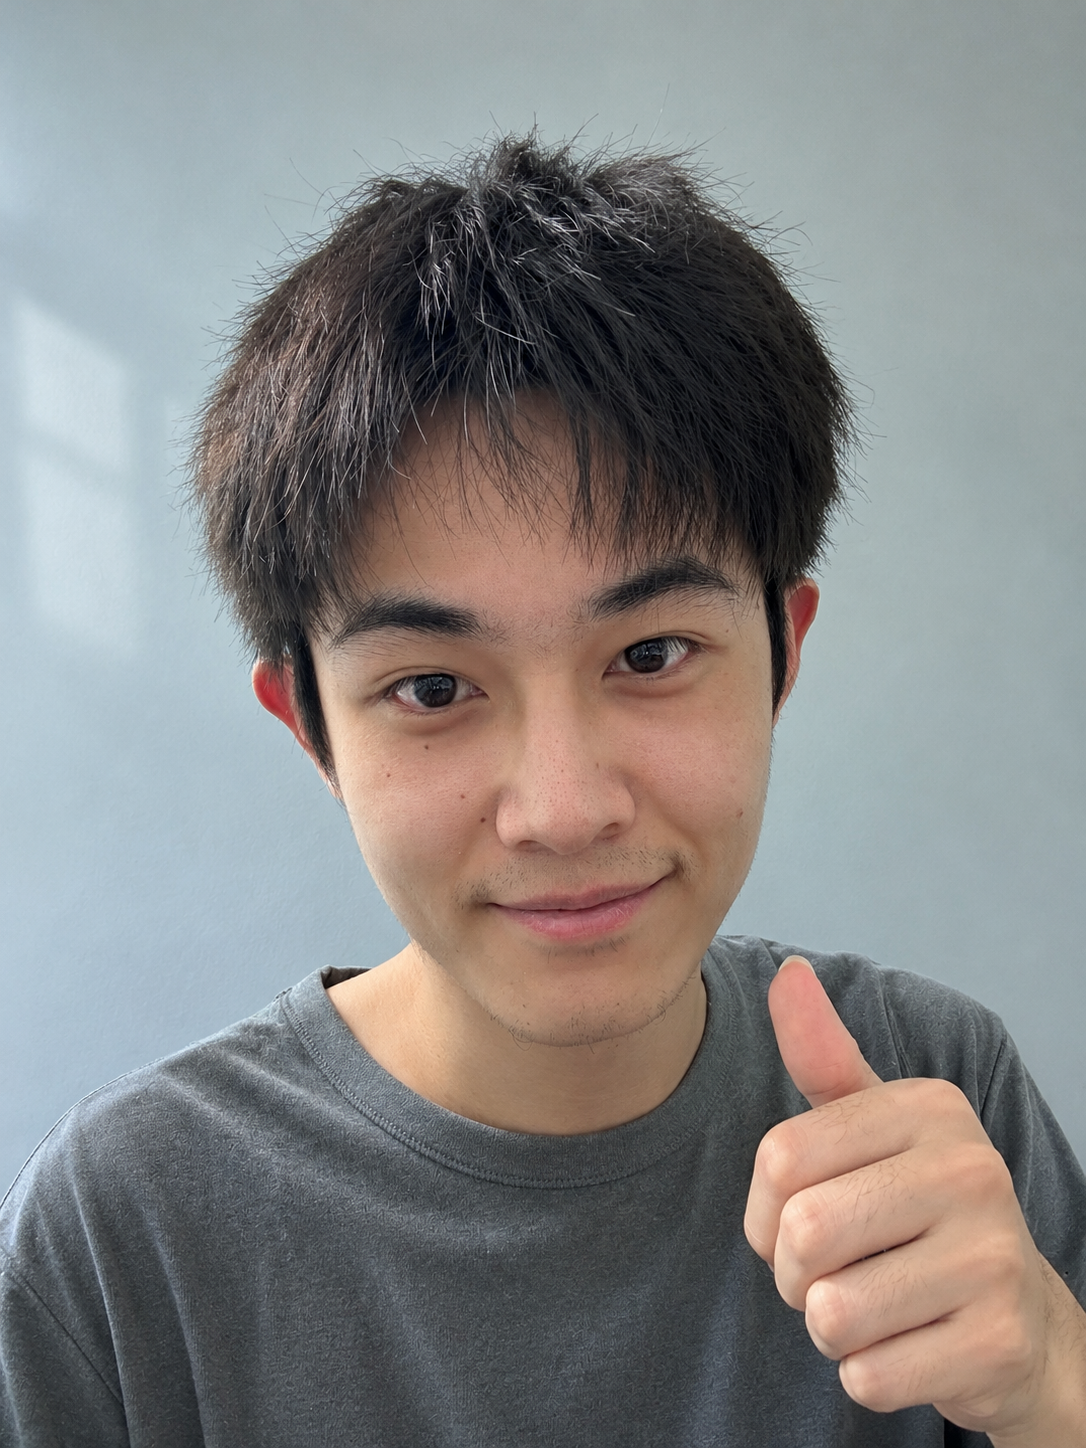
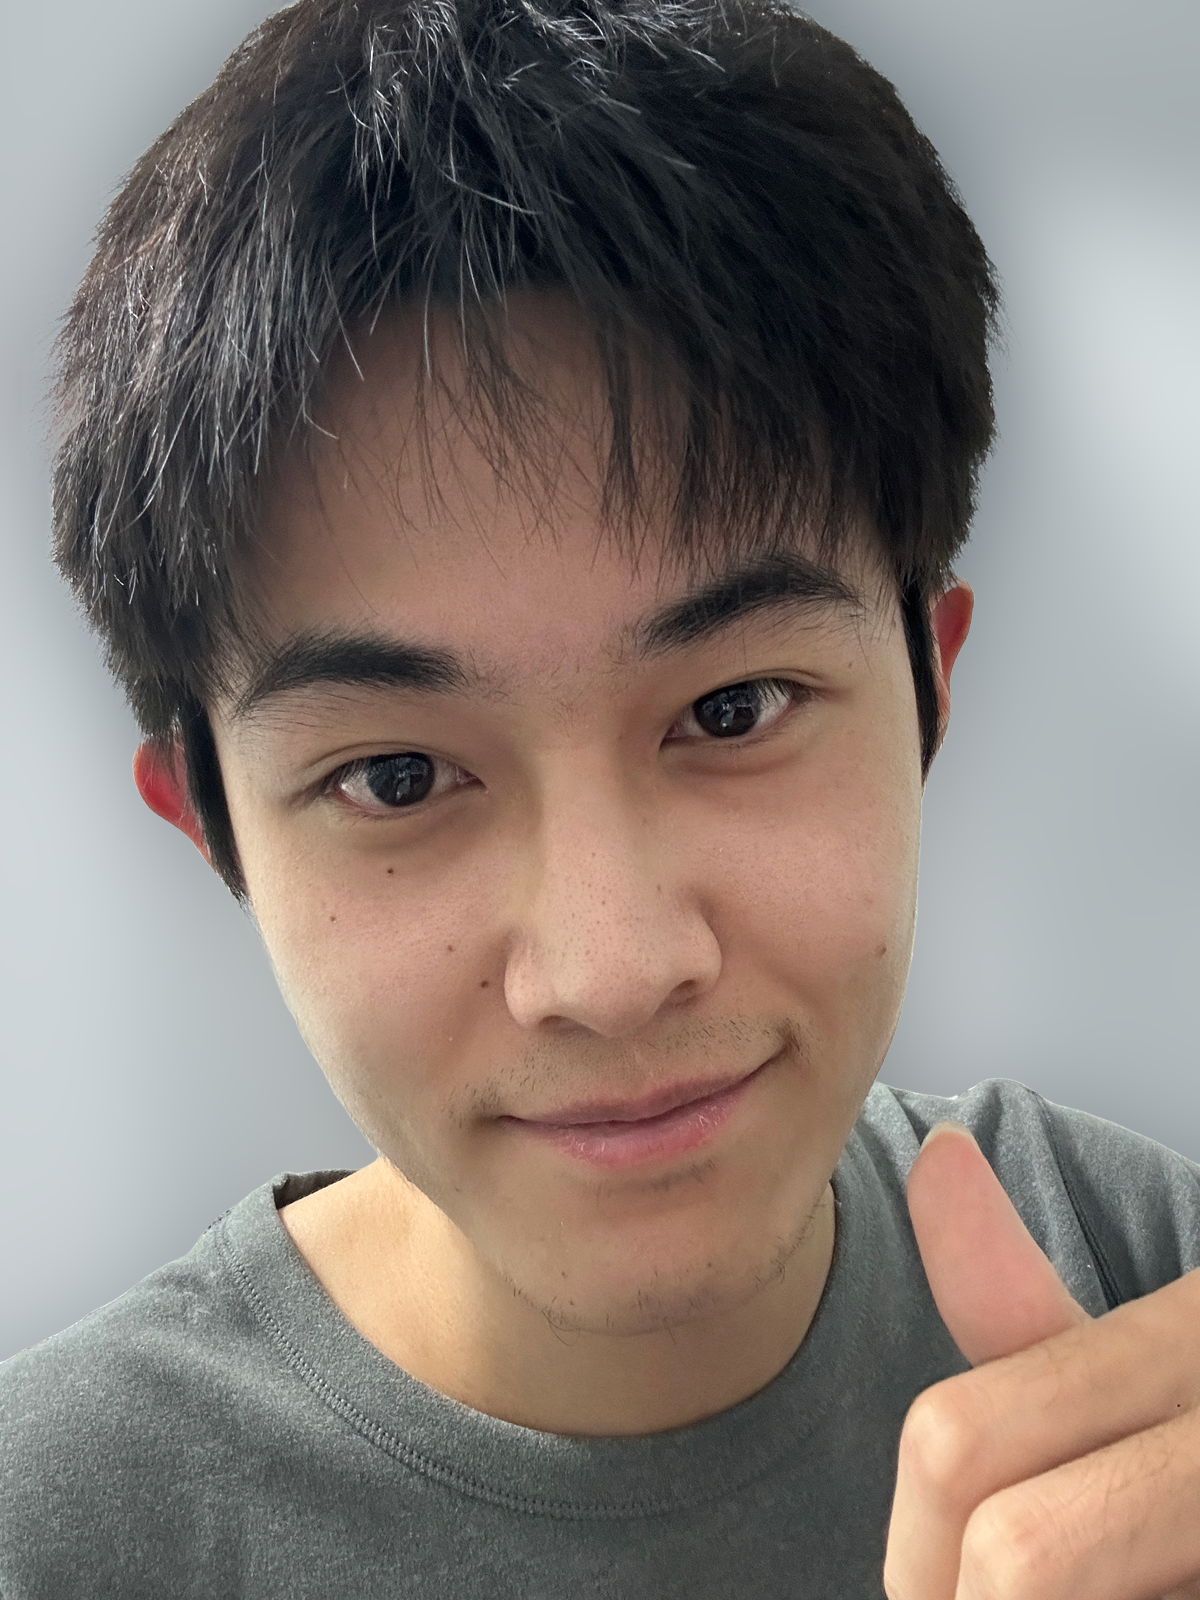
Use the original portrait with a softly blurred background

diff --git a/index.html b/index.html
@@ -19,7 +19,7 @@
 <link rel="icon" href="data:,"><link rel="stylesheet" href="morin-base.css?v=ab1dabcaa3b3"><link rel="stylesheet" href="style.css?v=1e5c5fdc3342"><link rel="stylesheet" href="profile.css?v=ee36d364a433"><link rel="stylesheet" href="homepage-figures.css?v=f113e29c22df"><link rel="stylesheet" href="homepage-entry.css?v=89d8056be196"><script src="homepage-entry.js?v=c9922bf32634" defer></script><script src="profile.js?v=dd6bd2636d74" defer></script><link rel="stylesheet" href="language-control.css?v=ee913818d95e"><link rel="stylesheet" href="homepage-nav.css?v=8733654aff8b"><script src="homepage-nav.js?v=e3672850b54e" defer></script><script src="language-control.js?v=cddb643d28ec" defer></script><script src="site.js?v=22eb46f49121" defer></script><link rel="stylesheet" href="blog/icons.css?v=ea12366de164"><script src="blog/icons.js?v=57007c8be5c5" data-icons-scope="theme" defer></script></head>
 <body><a class="skip-link" href="#content">Skip to content</a>
 <div class="masthead"><div class="masthead__inner-wrap"><nav class="greedy-nav" aria-label="Main navigation"><ul class="visible-links"><li class="masthead__menu-item"><a href="#about"><span data-en="Homepage" data-zh="主页">Homepage</span></a></li><li class="masthead__menu-item"><a href="#about"><span data-en="About Me" data-zh="关于我">About Me</span></a></li><li class="masthead__menu-item"><a href="#news"><span data-en="News" data-zh="动态">News</span></a></li><li class="masthead__menu-item"><a href="#publications"><span data-en="Publications" data-zh="论文">Publications</span></a></li><li class="masthead__menu-item"><a href="#honors"><span data-en="Honors and Awards" data-zh="荣誉与奖项">Honors and Awards</span></a></li><li class="masthead__menu-item"><a href="#education"><span data-en="Education" data-zh="教育经历">Education</span></a></li><li class="masthead__menu-item"><a href="#internships"><span data-en="Internships" data-zh="实习经历">Internships</span></a></li><li class="masthead__menu-item"><a href="daily/"><span data-en="Daily Papers" data-zh="每日论文">Daily Papers</span></a></li><li class="masthead__menu-item"><a class="blog-entry" href="blog/" aria-label="Playground"><span class="playground-word">Playground</span><svg class="playground-arrows" viewBox="0 0 36 12" aria-hidden="true"><path class="playground-arrow-main" d="M.75 6h10.5M6 .75 11.25 6 6 11.25"/><path class="playground-chevron playground-chevron--1" d="M15 10 19.5 5.5 15 1"/><path class="playground-chevron playground-chevron--2" d="M23 10 27.5 5.5 23 1"/><path class="playground-chevron playground-chevron--3" d="M31 10 35.5 5.5 31 1"/></svg></a></li></ul></nav><button id="theme-toggle" type="button" aria-label="Switch to dark mode" title="Switch to dark mode"><svg class="theme-icon theme-icon--moon" viewBox="0 0 24 24" fill="none" stroke="currentColor" stroke-width="1.7" stroke-linecap="round" stroke-linejoin="round" aria-hidden="true"><path d="M20.9 13a9 9 0 0 1-9.9-9.9A9 9 0 1 0 20.9 13Z"/></svg><svg class="theme-icon theme-icon--sun" viewBox="0 0 24 24" fill="none" stroke="currentColor" stroke-width="1.7" stroke-linecap="round" aria-hidden="true"><circle cx="12" cy="12" r="4"/><path d="M12 2v2m0 16v2M2 12h2m16 0h2M4.93 4.93l1.42 1.42m11.3 11.3 1.42 1.42M4.93 19.07l1.42-1.42m11.3-11.3 1.42-1.42"/></svg></button><button id="language" type="button" aria-label="切换到中文">中文</button></div></div>
-<div id="main"><aside class="sidebar sticky" aria-label="Profile"><div class="profile_box"><div class="author__avatar"><div class="portrait-scene"><button class="portrait-toggle" type="button" aria-label="Show emoji portrait and university emblems" aria-pressed="false" aria-controls="profile-universities" aria-describedby="portrait-hint"><span class="portrait-frame"><img class="portrait portrait--photo" src="assets/previews/portrait-window-light-480.webp?v=c74d397d848f" srcset="assets/previews/portrait-window-light-480.webp?v=c74d397d848f 480w, assets/previews/portrait-window-light-960.webp?v=93c7529ac0cb 960w" sizes="(max-width:540px) 112px, (max-width:924px) 145px, (max-width:1279px) 160px, 175px" width="960" height="1280" alt="Yongxue Xu" fetchpriority="high" decoding="async"><img class="portrait portrait--memoji" src="assets/previews/portrait-memoji-great-wall-v1-480.webp?v=c68a835f8f32" srcset="assets/previews/portrait-memoji-great-wall-v1-480.webp?v=c68a835f8f32 480w, assets/previews/portrait-memoji-great-wall-v1-960.webp?v=4a2255a6f0a6 960w" sizes="(max-width:540px) 112px, (max-width:924px) 145px, (max-width:1279px) 160px, 175px" width="960" height="1280" alt="" aria-hidden="true" decoding="async"></span><span class="portrait-sparkle" aria-hidden="true">✨</span></button><div id="profile-universities" class="portrait-universities" aria-hidden="true" inert><a class="portrait-university portrait-university--sjtu" href="https://www.sjtu.edu.cn/" target="_blank" rel="noopener noreferrer" aria-label="Shanghai Jiao Tong University" data-school-en="Shanghai Jiao Tong University" data-school-zh="上海交通大学" tabindex="-1"><span class="badge-response"><span class="badge-float"><img src="assets/universities/sjtu.svg?v=6ba82c7d992d" alt="" width="96" height="96"></span></span></a><a class="portrait-university portrait-university--westlake" href="https://www.westlake.edu.cn/" target="_blank" rel="noopener noreferrer" aria-label="Westlake University" data-school-en="Westlake University" data-school-zh="西湖大学" tabindex="-1"><span class="badge-response"><span class="badge-float"><img src="assets/universities/westlake.png?v=ed78d9d8a744" alt="" width="96" height="96"></span></span></a><a class="portrait-university portrait-university--sysu" href="https://www.sysu.edu.cn/" target="_blank" rel="noopener noreferrer" aria-label="Sun Yat-sen University" data-school-en="Sun Yat-sen University" data-school-zh="中山大学" tabindex="-1"><span class="badge-response"><span class="badge-float"><img src="assets/universities/sysu.png?v=e0b31f335ef3" alt="" width="96" height="96"></span></span></a><a class="portrait-university portrait-university--hkust" href="https://hkust.edu.hk/" target="_blank" rel="noopener noreferrer" aria-label="Hong Kong University of Science and Technology" data-school-en="Hong Kong University of Science and Technology" data-school-zh="香港科技大学" tabindex="-1"><span class="badge-response"><span class="badge-float"><img src="assets/universities/hkust.svg?v=ba46fa341555" alt="" width="96" height="96"></span></span></a></div><span id="portrait-hint" class="portrait-hint"><svg class="portrait-hint-orbit" viewBox="0 0 16 16" aria-hidden="true"><circle cx="4" cy="4" r="2"/><circle cx="12" cy="4" r="2"/><circle cx="4" cy="12" r="2"/><circle cx="12" cy="12" r="2"/></svg><span data-en="Click for a surprise" data-zh="点击，发现小彩蛋">Click for a surprise</span></span></div></div>
+<div id="main"><aside class="sidebar sticky" aria-label="Profile"><div class="profile_box"><div class="author__avatar"><div class="portrait-scene"><button class="portrait-toggle" type="button" aria-label="Show emoji portrait and university emblems" aria-pressed="false" aria-controls="profile-universities" aria-describedby="portrait-hint"><span class="portrait-frame"><img class="portrait portrait--photo" src="assets/previews/portrait-window-light-480.webp?v=d40114008141" srcset="assets/previews/portrait-window-light-480.webp?v=d40114008141 480w, assets/previews/portrait-window-light-960.webp?v=92dcf7f50dbe 960w" sizes="(max-width:540px) 112px, (max-width:924px) 145px, (max-width:1279px) 160px, 175px" width="960" height="1280" alt="Yongxue Xu" fetchpriority="high" decoding="async"><img class="portrait portrait--memoji" src="assets/previews/portrait-memoji-great-wall-v1-480.webp?v=c68a835f8f32" srcset="assets/previews/portrait-memoji-great-wall-v1-480.webp?v=c68a835f8f32 480w, assets/previews/portrait-memoji-great-wall-v1-960.webp?v=4a2255a6f0a6 960w" sizes="(max-width:540px) 112px, (max-width:924px) 145px, (max-width:1279px) 160px, 175px" width="960" height="1280" alt="" aria-hidden="true" decoding="async"></span><span class="portrait-sparkle" aria-hidden="true">✨</span></button><div id="profile-universities" class="portrait-universities" aria-hidden="true" inert><a class="portrait-university portrait-university--sjtu" href="https://www.sjtu.edu.cn/" target="_blank" rel="noopener noreferrer" aria-label="Shanghai Jiao Tong University" data-school-en="Shanghai Jiao Tong University" data-school-zh="上海交通大学" tabindex="-1"><span class="badge-response"><span class="badge-float"><img src="assets/universities/sjtu.svg?v=6ba82c7d992d" alt="" width="96" height="96"></span></span></a><a class="portrait-university portrait-university--westlake" href="https://www.westlake.edu.cn/" target="_blank" rel="noopener noreferrer" aria-label="Westlake University" data-school-en="Westlake University" data-school-zh="西湖大学" tabindex="-1"><span class="badge-response"><span class="badge-float"><img src="assets/universities/westlake.png?v=ed78d9d8a744" alt="" width="96" height="96"></span></span></a><a class="portrait-university portrait-university--sysu" href="https://www.sysu.edu.cn/" target="_blank" rel="noopener noreferrer" aria-label="Sun Yat-sen University" data-school-en="Sun Yat-sen University" data-school-zh="中山大学" tabindex="-1"><span class="badge-response"><span class="badge-float"><img src="assets/universities/sysu.png?v=e0b31f335ef3" alt="" width="96" height="96"></span></span></a><a class="portrait-university portrait-university--hkust" href="https://hkust.edu.hk/" target="_blank" rel="noopener noreferrer" aria-label="Hong Kong University of Science and Technology" data-school-en="Hong Kong University of Science and Technology" data-school-zh="香港科技大学" tabindex="-1"><span class="badge-response"><span class="badge-float"><img src="assets/universities/hkust.svg?v=ba46fa341555" alt="" width="96" height="96"></span></span></a></div><span id="portrait-hint" class="portrait-hint"><svg class="portrait-hint-orbit" viewBox="0 0 16 16" aria-hidden="true"><circle cx="4" cy="4" r="2"/><circle cx="12" cy="4" r="2"/><circle cx="4" cy="12" r="2"/><circle cx="12" cy="12" r="2"/></svg><span data-en="Click for a surprise" data-zh="点击，发现小彩蛋">Click for a surprise</span></span></div></div>
 <div class="author__content"><h1 class="author__name">Yongxue Xu</h1><p class="author__bio"><span data-en="Undergraduate Student" data-zh="本科生">Undergraduate Student</span></p></div>
 <div class="author__urls-wrapper"><p class="research-interests"><span data-en="Research interests span 4D scene understanding, video generation, world models, and embodied intelligence." data-zh="研究兴趣涵盖 4D 场景理解、视频生成、世界模型与具身智能。">Research interests span 4D scene understanding, video generation, world models, and embodied intelligence.</span></p><ul class="author__urls social-icons">
 <li class="profile-location"><svg class="contact-icon" viewBox="0 0 384 512" fill="currentColor" aria-hidden="true"><!-- Font Awesome Free 5.15.4 by @fontawesome - https://fontawesome.com - Icons licensed CC BY 4.0: https://creativecommons.org/licenses/by/4.0/ --><path d="M172.268 501.67C26.97 291.031 0 269.413 0 192 0 85.961 85.961 0 192 0s192 85.961 192 192c0 77.413-26.97 99.031-172.268 309.67-9.535 13.774-29.93 13.773-39.464 0z"/></svg><span data-en="Shenzhen, China" data-zh="中国 · 深圳">Shenzhen, China</span></li>
